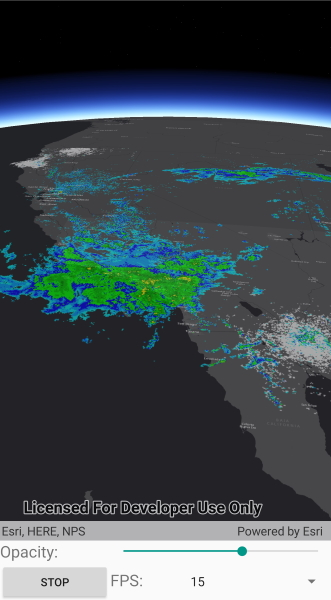
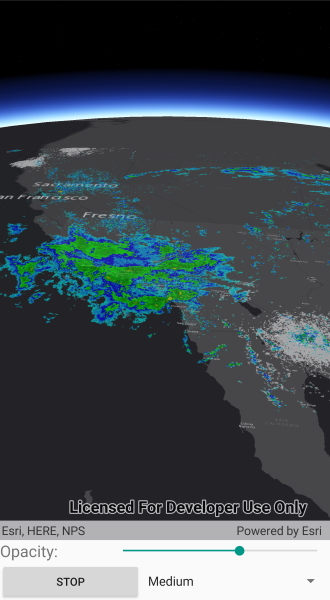
Updated Forms and Android

diff --git a/src/Forms/Shared/Samples/SceneView/AnimateImageOverlay/AnimateImageOverlay.xaml b/src/Forms/Shared/Samples/SceneView/AnimateImageOverlay/AnimateImageOverlay.xaml
@@ -43,11 +43,11 @@
                     <Label
                         Grid.Column="1"
                         Margin="5"
-                        Text="FPS:" />
+                        Text="Speed:" />
                     <Picker
-                        x:Name="FPSComboBox"
+                        x:Name="SpeedComboBox"
                         Grid.Column="2"
-                        SelectedIndexChanged="FPSSelected" />
+                        SelectedIndexChanged="SpeedSelected" />
                 </Grid>
             </StackLayout>
         </resources:ResponsiveFormContainer>

diff --git a/src/Android/Xamarin.Android/Samples/SceneView/AnimateImageOverlay/AnimateImageOverlay.cs b/src/Android/Xamarin.Android/Samples/SceneView/AnimateImageOverlay/AnimateImageOverlay.cs
@@ -36,7 +36,7 @@ namespace ArcGISRuntimeXamarin.Samples.AnimateImageOverlay
     {
         // Hold references to the UI controls.
         private SceneView _mySceneView;
-        private Spinner _fpsSpinner;
+        private Spinner _speedSpinner;
         private SeekBar _opacitySlider;
         private Button _pauseButton;
 
@@ -100,9 +100,9 @@ namespace ArcGISRuntimeXamarin.Samples.AnimateImageOverlay
             _timer = new Timer(AnimateOverlay);
             _timer.Change(0, 1000 / 15);
 
-            // Populate the combobox for selecting FPS.
-            _fpsSpinner.Adapter = new ArrayAdapter<string>(this, Android.Resource.Layout.SimpleSpinnerItem, new string[] { "15", "30", "60" });
-            _fpsSpinner.SetSelection(0);
+            // Populate the spinner for selecting speed.
+            _speedSpinner.Adapter = new ArrayAdapter<string>(this, Android.Resource.Layout.SimpleSpinnerItem, new string[] { "Slow", "Medium", "Fast" });
+            _speedSpinner.SetSelection(0);
         }
 
         private void AnimateOverlay(object state)
@@ -126,14 +126,26 @@ namespace ArcGISRuntimeXamarin.Samples.AnimateImageOverlay
             ((Button)sender).Text = _animationStopped ? "Start" : "Stop";
         }
 
-        private void FPSSelected(object sender, AdapterView.ItemSelectedEventArgs e)
+        private void SpeedSelected(object sender, AdapterView.ItemSelectedEventArgs e)
         {
-            // Calculate the new time interval using the selected frames per second.
-            if (_timer != null)
+            int newInterval = 0;
+            switch (_speedSpinner.SelectedItem.ToString())
             {
-                int newInterval = 1000 / int.Parse(_fpsSpinner.SelectedItem.ToString());
-                _timer?.Change(0, newInterval);
+                case "Slow":
+                    newInterval = 1000 / 15;
+                    break;
+
+                case "Medium":
+                    newInterval = 1000 / 30;
+                    break;
+
+                case "Fast":
+                    newInterval = 1000 / 60;
+                    break;
             }
+
+            // Calculate the new time interval using the selected speed.
+            _timer?.Change(0, newInterval);
         }
 
         private void ChangeOpacity(object sender, SeekBar.ProgressChangedEventArgs e)
@@ -150,11 +162,11 @@ namespace ArcGISRuntimeXamarin.Samples.AnimateImageOverlay
             _mySceneView = FindViewById<SceneView>(Resource.Id.SceneView);
             _pauseButton = FindViewById<Button>(Resource.Id.pauseButton);
             _opacitySlider = FindViewById<SeekBar>(Resource.Id.opacitySlider);
-            _fpsSpinner = FindViewById<Spinner>(Resource.Id.fpsSpinner);
+            _speedSpinner = FindViewById<Spinner>(Resource.Id.speedSpinner);
 
             _pauseButton.Click += StartStopAnimation;
             _opacitySlider.ProgressChanged += ChangeOpacity;
-            _fpsSpinner.ItemSelected += FPSSelected;
+            _speedSpinner.ItemSelected += SpeedSelected;
         }
 
         // Stop the animation on pause.
@@ -171,7 +183,7 @@ namespace ArcGISRuntimeXamarin.Samples.AnimateImageOverlay
             // Unhook event handlers.
             _pauseButton.Click -= StartStopAnimation;
             _opacitySlider.ProgressChanged -= ChangeOpacity;
-            _fpsSpinner.ItemSelected -= FPSSelected;
+            _speedSpinner.ItemSelected -= SpeedSelected;
 
             // Stop the animation and timer.
             _animationStopped = true;

diff --git a/src/Forms/Shared/Samples/SceneView/AnimateImageOverlay/AnimateImageOverlay.xaml.cs b/src/Forms/Shared/Samples/SceneView/AnimateImageOverlay/AnimateImageOverlay.xaml.cs
@@ -92,9 +92,9 @@ namespace ArcGISRuntimeXamarin.Samples.AnimateImageOverlay
             _timer = new Timer(AnimateOverlay);
             _timer.Change(0, 1000 / 15);
 
-            // Populate the combobox for selecting FPS.
-            FPSComboBox.ItemsSource = new int[] { 15, 30, 60 };
-            FPSComboBox.SelectedIndex = 0;
+            // Populate the combobox for selecting speed.
+            SpeedComboBox.ItemsSource = new string[] { "Slow", "Medium", "Fast" };
+            SpeedComboBox.SelectedIndex = 0;
         }
 
         private void AnimateOverlay(object state)
@@ -124,10 +124,25 @@ namespace ArcGISRuntimeXamarin.Samples.AnimateImageOverlay
             if (_imageOverlay != null) _imageOverlay.Opacity = ((Slider)sender).Value;
         }
 
-        private void FPSSelected(object sender, EventArgs e)
+        private void SpeedSelected(object sender, EventArgs e)
         {
-            // Calculate the new time interval using the selected frames per second.
-            int newInterval = 1000 / (int)FPSComboBox.SelectedItem;
+            int newInterval = 0;
+            switch (SpeedComboBox.SelectedItem)
+            {
+                case "Slow":
+                    newInterval = 1000 / 15;
+                    break;
+
+                case "Medium":
+                    newInterval = 1000 / 30;
+                    break;
+
+                case "Fast":
+                    newInterval = 1000 / 60;
+                    break;
+            }
+
+            // Calculate the new time interval using the selected speed.
             _timer?.Change(0, newInterval);
         }
 
